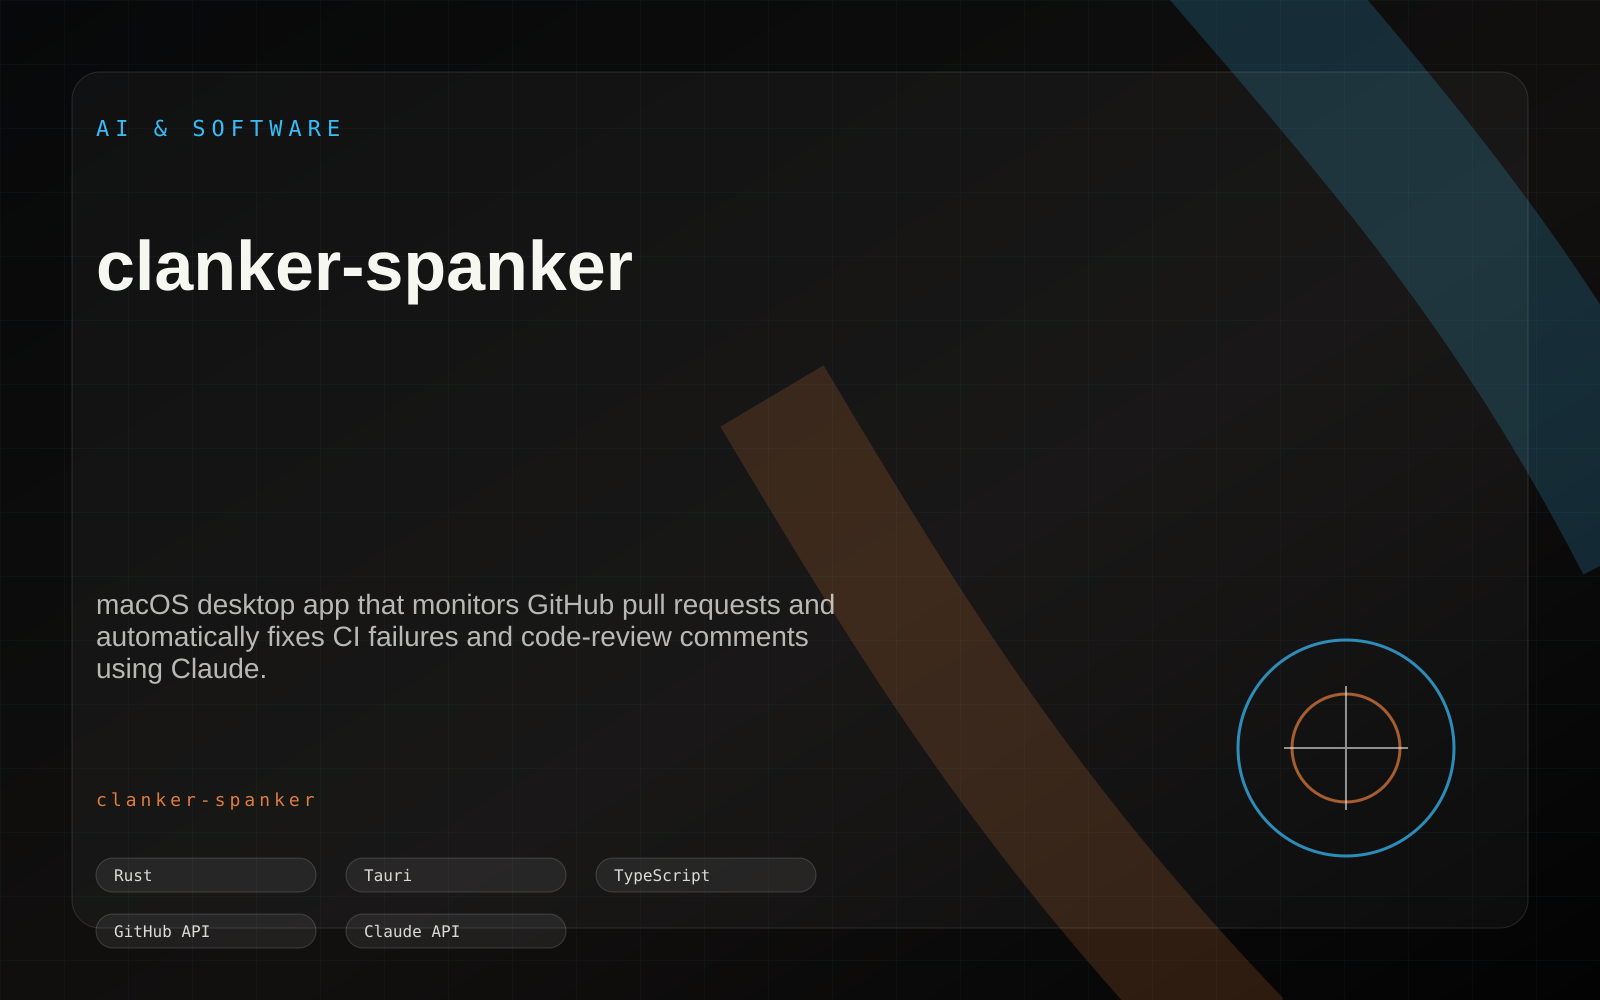
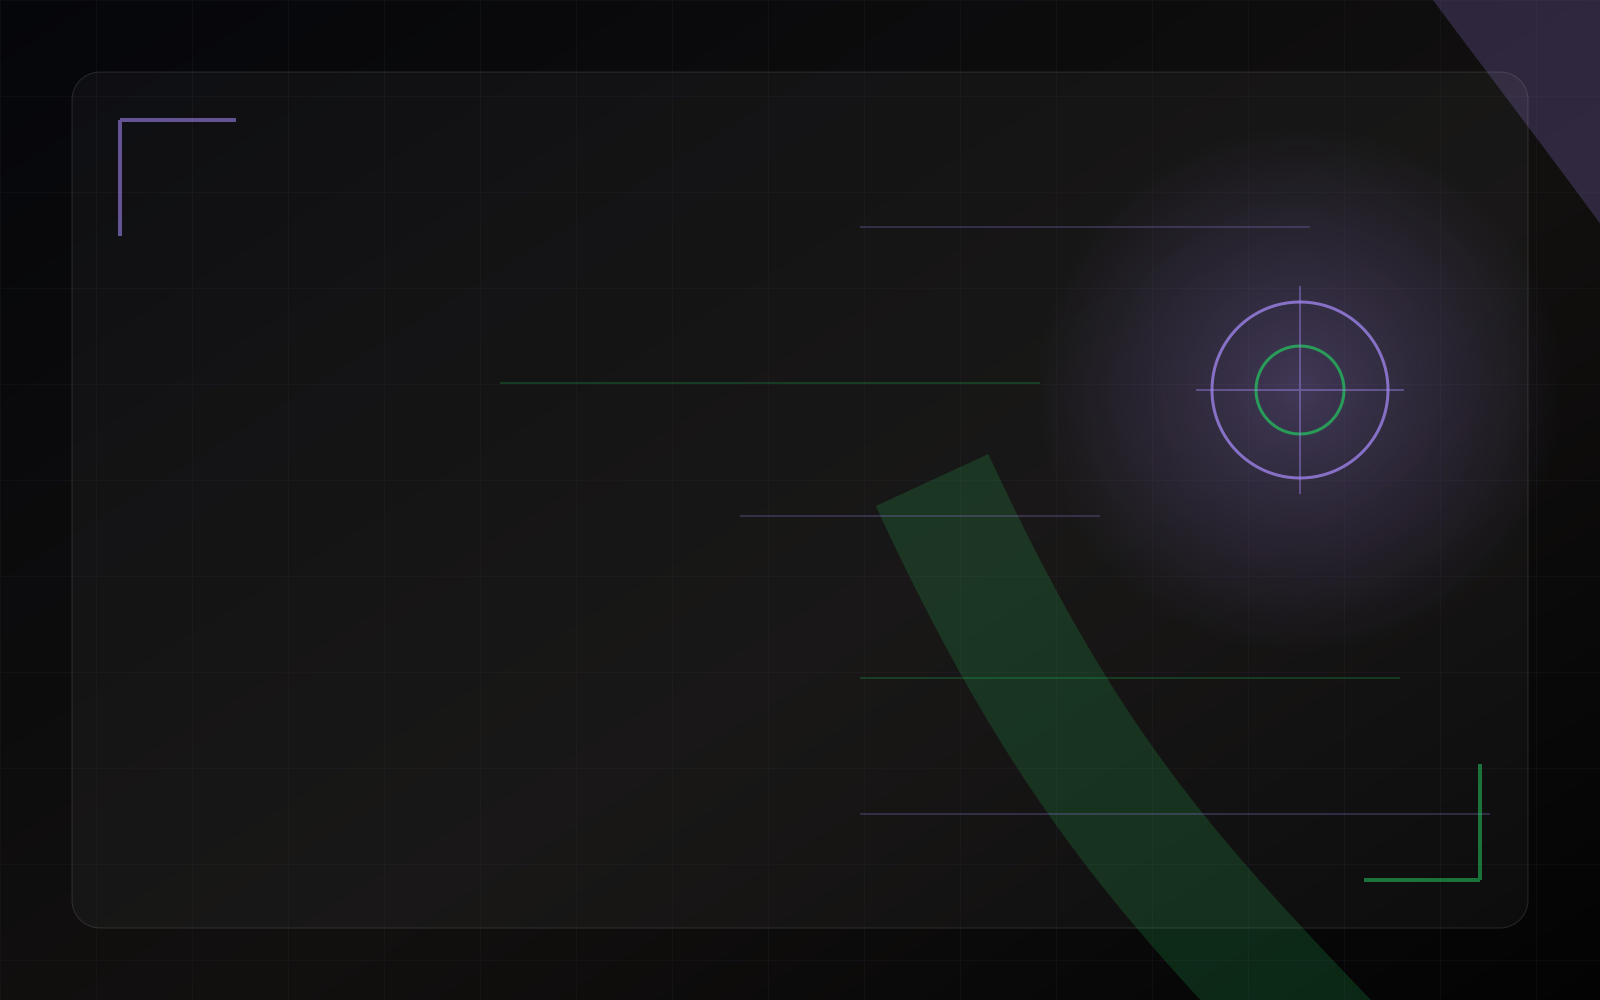
Make grid cards legible at rest and stop duplicate titles
The card overlay used a to-transparent scrim on a content-sized box, so the
title floated over bare artwork and was unreadable on light images. Keep the
scrim dark across its own box and add a text shadow.

Project and game cards now keep their title visible at rest and expand only
the meta block on hover, so the archive is scannable without hovering every
card; photo cards keep the gallery hover-reveal.

The cover generator baked the name, category, description, and tech badges
into the artwork that the card then rendered again — every generated cover
read its own title twice. Covers are abstract now, with palette and geometry
derived from the project id so no two look like the same template, and each
one is recorded in generated-covers.json as still needing a real capture.

diff --git a/src/components/BentoGrid/cards/MediaCard.tsx b/src/components/BentoGrid/cards/MediaCard.tsx
@@ -7,9 +7,12 @@
  *   - children fill the card as the visual ("media").
  *   - shellExtras renders absolute decorative layers (e.g. scanlines, pixel corners).
  *   - topLeft / topRight / bottomLeft / bottomRight slots host badges/indicators.
- *   - title + metaLines render in a bottom gradient overlay that is:
- *       - always visible on mobile,
- *       - hidden until hover/focus on desktop.
+ *   - title + metaLines render in a bottom gradient overlay.
+ *     With `titleAtRest` (project/game cards) the title is always legible and
+ *     only metaLines expand on hover/focus, so a desktop visitor can scan the
+ *     grid without hovering every card. Without it (photo cards) the whole
+ *     overlay stays hidden until hover, which is the gallery idiom.
+ *     On mobile — where there is no hover — everything is always visible.
  *
  * Subclasses (PhotoCard / ProjectCard / GameCard) keep their own theme-specific
  * shell style via `shellStyle` and any always-on decorations via `shellExtras`.
@@ -39,6 +42,12 @@ export interface MediaCardProps {
   /** Optional content under the title (description, badges, score). */
   metaLines?: ReactNode;
 
+  /**
+   * Keep the title readable at rest instead of hiding the whole overlay until
+   * hover. Only `metaLines` expands on hover/focus.
+   */
+  titleAtRest?: boolean;
+
   /** Always-visible decorative absolute layers (scanlines, pixel corners, accent strip). */
   shellExtras?: ReactNode;
 
@@ -60,8 +69,14 @@ export interface MediaCardProps {
   onHoverChange?: (isHovered: boolean) => void;
 }
 
+// The scrim has to stay dark all the way to the top of its own box: the box is
+// content-sized, so a `to-transparent` stop left the title floating over bare
+// artwork whenever metaLines made the box tall (unreadable on light images).
 const OVERLAY_BASE_CLASS =
-  'pointer-events-none absolute inset-x-0 bottom-0 z-[5] bg-gradient-to-t from-black/85 via-black/45 to-transparent p-3 transition-opacity duration-300';
+  'pointer-events-none absolute inset-x-0 bottom-0 z-[5] bg-gradient-to-t from-black/95 via-black/90 to-black/75 p-3 transition-opacity duration-300';
+
+const TITLE_CLASS =
+  'text-sm font-semibold text-white line-clamp-2 [text-shadow:0_1px_3px_rgba(0,0,0,0.85)]';
 
 export function MediaCard({
   id,
@@ -75,6 +90,7 @@ export function MediaCard({
   children,
   title,
   metaLines,
+  titleAtRest = false,
   shellExtras,
   topLeft,
   topRight,
@@ -108,9 +124,19 @@ export function MediaCard({
   };
 
   // Focus must reveal the overlay (a11y) — keyboard users can't hover.
-  const overlayClass = isFocused
-    ? `${OVERLAY_BASE_CLASS} opacity-100`
-    : `${OVERLAY_BASE_CLASS} opacity-100 md:opacity-0 md:group-hover:opacity-100`;
+  const overlayClass =
+    titleAtRest || isFocused
+      ? `${OVERLAY_BASE_CLASS} opacity-100`
+      : `${OVERLAY_BASE_CLASS} opacity-100 md:opacity-0 md:group-hover:opacity-100`;
+
+  // With `titleAtRest` the meta block collapses to zero height at rest so the
+  // scrim stays a thin bar under the title, then expands on hover/focus.
+  // `max-md:` keeps it open on touch, where there is no hover.
+  const metaWrapperClass = titleAtRest
+    ? `grid transition-all duration-300 max-md:grid-rows-[1fr] max-md:opacity-100 ${
+        isHighlighted ? 'grid-rows-[1fr] opacity-100' : 'grid-rows-[0fr] opacity-0'
+      }`
+    : 'grid grid-rows-[1fr] opacity-100';
 
   return (
     <BaseCard
@@ -133,10 +159,16 @@ export function MediaCard({
       {/* Decorative absolute layers (scanlines, pixel corners, accent strip) */}
       {shellExtras}
 
-      {/* Hover-revealed overlay (always visible on mobile + when focused) */}
+      {/* Title + meta overlay (always visible on mobile + when focused) */}
       <div className={overlayClass}>
-        <div className="text-sm font-semibold text-white line-clamp-2">{title}</div>
-        {metaLines ? <div className="mt-1 space-y-1 text-xs text-white/70">{metaLines}</div> : null}
+        <div className={TITLE_CLASS}>{title}</div>
+        {metaLines ? (
+          <div className={metaWrapperClass}>
+            <div className="min-h-0 overflow-hidden">
+              <div className="mt-1 space-y-1 text-xs text-white/75">{metaLines}</div>
+            </div>
+          </div>
+        ) : null}
       </div>
 
       {/* Corner slots — above media + overlay */}

diff --git a/src/components/BentoGrid/cards/cards.test.tsx b/src/components/BentoGrid/cards/cards.test.tsx
@@ -153,6 +153,31 @@ describe('BentoGrid cards', () => {
     expect(screen.queryByRole('link', { name: /demo/i })).toBeNull();
   });
 
+  it('keeps the project title legible at rest and only expands meta on hover', () => {
+    const project: ProjectCardData = {
+      id: 'robot-arm',
+      type: 'project',
+      title: 'Robot Arm',
+      description: 'A compact arm controller',
+      category: 'Robotics',
+      technologies: ['ROS2'],
+      status: 'Completed',
+      links: {},
+    };
+
+    render(<ProjectCard card={project} position={{ ...position, size: '2x2' }} theme={theme} />);
+
+    const overlay = screen.getByText('Robot Arm').parentElement;
+    // The scrim must not be hover-gated on desktop, or the archive is a wall of
+    // unlabelled screenshots until you hover each card.
+    expect(overlay?.className).toContain('opacity-100');
+    expect(overlay?.className).not.toContain('md:opacity-0');
+
+    // The meta block is what collapses at rest.
+    const meta = screen.getByText('A compact arm controller').closest('.grid');
+    expect(meta?.className).toContain('grid-rows-[0fr]');
+  });
+
   it('renders game cards when storage is unavailable and the source best score is zero', () => {
     vi.spyOn(Storage.prototype, 'getItem').mockImplementation(() => {
       throw new Error('storage unavailable');

diff --git a/src/components/BentoGrid/cards/ProjectCard.tsx b/src/components/BentoGrid/cards/ProjectCard.tsx
@@ -4,10 +4,11 @@
  * ProjectCard — media-first card for projects.
  *
  * Thumbnail (or fallback icon) fills the card. Status badge and media
- * indicators (3D etc.) sit in the corners. On hover/focus a bottom gradient
- * overlay reveals the title, description, category, and a truncated row of
- * tech badges. Card click navigates — github/demo links live on the project
- * detail surface, not the card.
+ * indicators (3D etc.) sit in the corners. The title stays readable at rest
+ * (`titleAtRest`) so the grid is scannable without hovering; description,
+ * category, and a truncated row of tech badges expand on hover/focus. Card
+ * click navigates — github/demo links live on the project detail surface,
+ * not the card.
  */
 
 import { useState } from 'react';
@@ -187,6 +188,7 @@ export function ProjectCard({
       ariaLabel={`Open ${card.title}`}
       title={card.title}
       metaLines={meta}
+      titleAtRest
       topRight={<MediaIndicators card={card} />}
     >
       {card.thumbnail ? (

diff --git a/src/components/BentoGrid/cards/GameCard.tsx b/src/components/BentoGrid/cards/GameCard.tsx
@@ -170,6 +170,7 @@ export function GameCard({
       ariaLabel={card.title}
       title={card.title}
       metaLines={meta}
+      titleAtRest
       shellStyle={shellStyle}
       onHoverChange={setIsHovered}
       topLeft={
@@ -228,11 +229,6 @@ export function GameCard({
         >
           {icon}
         </motion.div>
-      </div>
-      <div className="pointer-events-none absolute inset-x-3 bottom-3 z-[4] hidden md:block">
-        <div className="max-w-full truncate font-mono text-[11px] uppercase tracking-wider text-white/70">
-          {card.title.toUpperCase()}
-        </div>
       </div>
     </MediaCard>
   );
